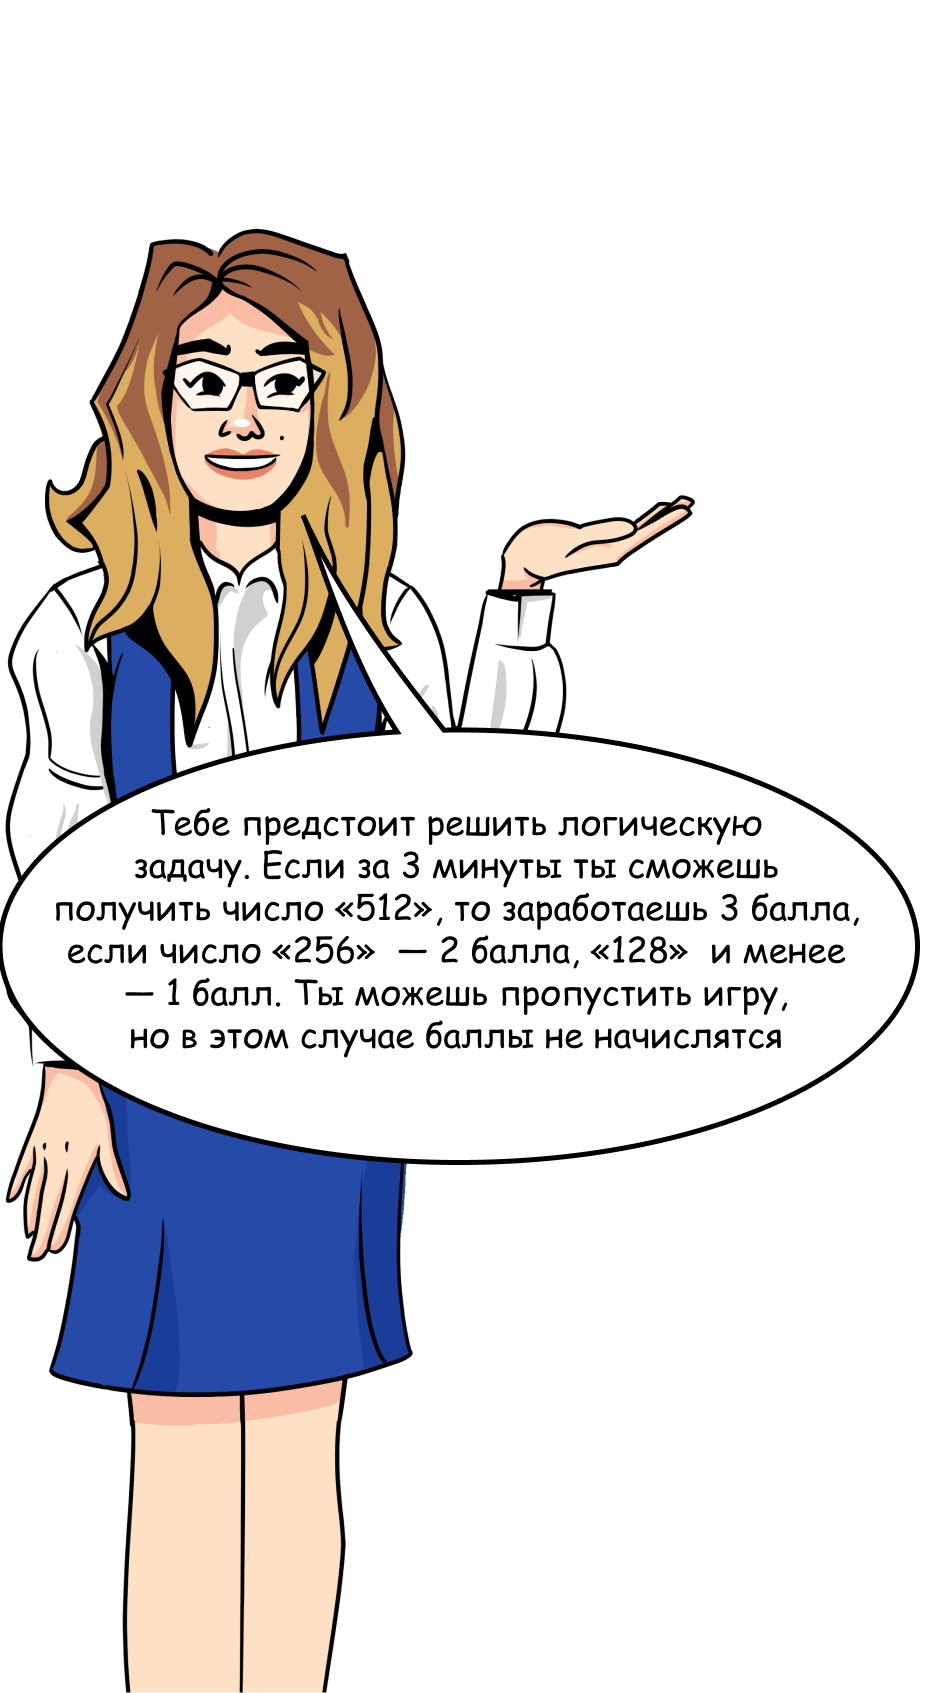
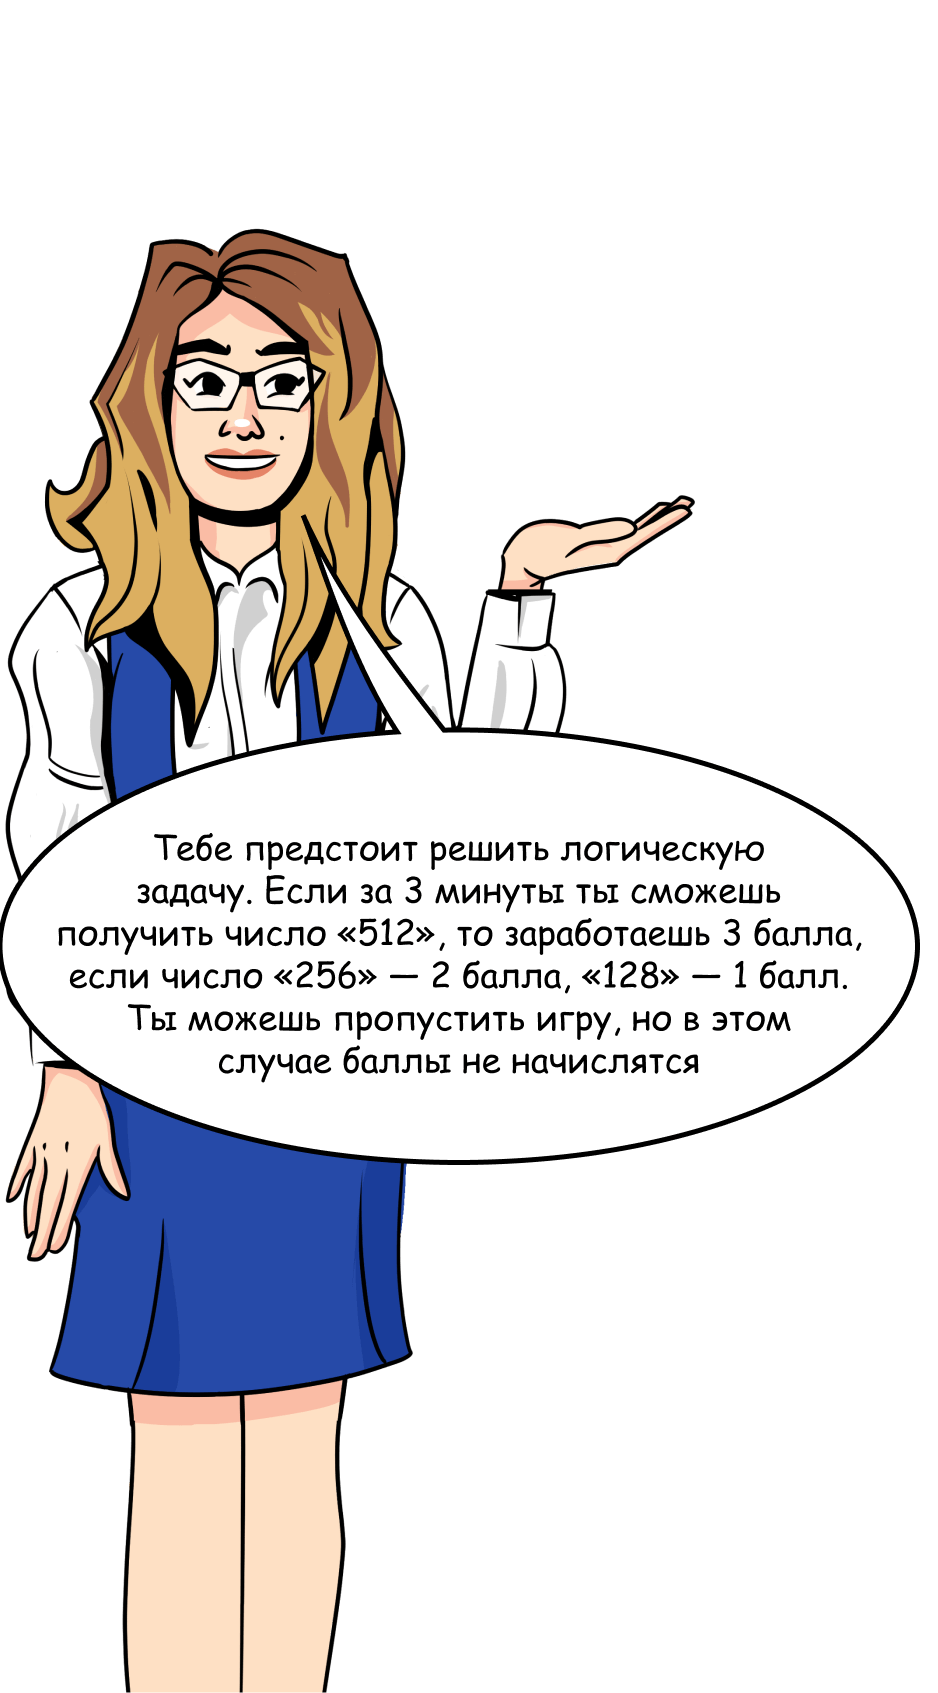
change screens + points for 2048

Changed region(s): [[0.0618, 0.4607, 0.9275, 0.645]]

diff --git a/src/components/screens/floor3/Game2048/index.js b/src/components/screens/floor3/Game2048/index.js
@@ -55,7 +55,11 @@ export function Game2048({isRules}) {
         if (hasTileValue(256)) {
             return 2
         }
-        return 1
+        if (hasTileValue(128)) {
+            return 1
+        }
+        
+        return 0;
     }
 
     useEffect(() => {
